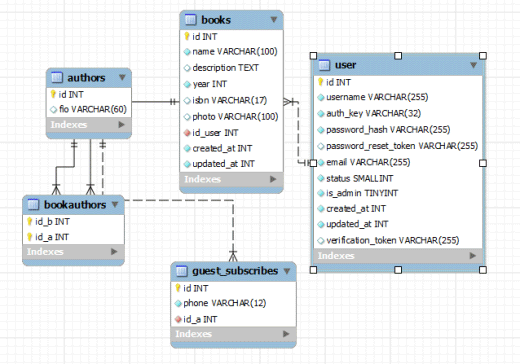
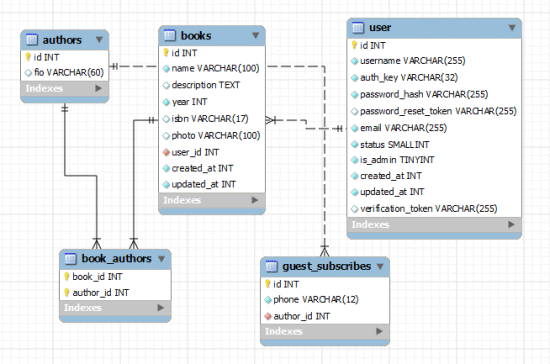
refactor column names

diff --git a/models/entities/Book.php b/models/entities/Book.php
@@ -24,7 +24,7 @@ use yii\db\ActiveRecord;
  * @property string|null $isbn ISBN книги, если известен
  * @property int $year Год издания
  * @property string|null $photo Путь к картинке обложки
- * @property int $id_user id пользователя, добавившего книгу
+ * @property int $user_id id пользователя, добавившего книгу
  * @property int $created_at
  * @property int $updated_at
  *
@@ -58,14 +58,14 @@ class Book extends \yii\db\ActiveRecord
         return 'books';
     }
 
-    public static function create($name, $description, $isbn, $photo, $id_user, $year): self
+    public static function create($name, $description, $isbn, $photo, $user_id, $year): self
     {
         $book = new static();
         $book->name = $name;
         $book->description = $description;
         $book->isbn = $isbn;
         $book->photo = $photo;
-        $book->id_user = $id_user;
+        $book->user_id = $user_id;
         $book->year = $year;
         return $book;
     }
@@ -93,18 +93,18 @@ class Book extends \yii\db\ActiveRecord
         $existed = $this->bookauthors;
         $existedIds = [];
         foreach ($existed as $bookAuthor) {
-            if (!in_array($bookAuthor->id_a, $newIds)) {
+            if (!in_array($bookAuthor->author_id, $newIds)) {
                 $bookAuthor->delete();
             }
-            $existedIds[] = $bookAuthor->id_a;
+            $existedIds[] = $bookAuthor->author_id;
         }
 
         // Проверяем на новых
         foreach ($newIds as $idAuthor) {
             if (!in_array($idAuthor, $existedIds)) {
                 $bookAuthor = new BookAuthor();
-                $bookAuthor->id_b = $this->id;
-                $bookAuthor->id_a = $idAuthor;
+                $bookAuthor->book_id = $this->id;
+                $bookAuthor->author_id = $idAuthor;
                 // Сохраняю в очередь задачу, что у автора появилась новая книга
                 // Эта задача, выполняясь, в свою очередь, создаст задачи по отправке оповещений подписчикам
                 Yii::$app->queue->push(new \app\services\AuthorNewBookJob([
@@ -120,12 +120,12 @@ class Book extends \yii\db\ActiveRecord
 
     /**
      * Проверяю что данная книга была создана пользователем с этим id
-     * @param int $id_user
+     * @param int $user_id
      * @return bool
      */
-    public function checkCreatedByUser(int $id_user): bool
+    public function checkCreatedByUser(int $user_id): bool
     {
-        return $this->id_user == $id_user;
+        return $this->user_id == $user_id;
     }
 
     /**
@@ -140,7 +140,7 @@ class Book extends \yii\db\ActiveRecord
             'isbn' => 'ISBN книги',
             'photo' => 'Путь к картинке обложки',
             'year' => 'Год издания',
-            'id_user' => 'id пользователя, добавившего книгу',
+            'user_id' => 'id пользователя, добавившего книгу',
             'created_at' => 'Created At',
             'updated_at' => 'Updated At',
         ];
@@ -153,7 +153,7 @@ class Book extends \yii\db\ActiveRecord
      */
     public function getAuthors(): \yii\db\ActiveQuery
     {
-        return $this->hasMany(Author::class, ['id' => 'id_a'])->viaTable('bookauthors', ['id_b' => 'id']);
+        return $this->hasMany(Author::class, ['id' => 'author_id'])->viaTable('book_authors', ['book_id' => 'id']);
     }
 
     /**
@@ -163,7 +163,7 @@ class Book extends \yii\db\ActiveRecord
      */
     public function getBookauthors(): \yii\db\ActiveQuery
     {
-        return $this->hasMany(Bookauthor::class, ['id_b' => 'id']);
+        return $this->hasMany(Bookauthor::class, ['book_id' => 'id']);
     }
 
     /**
@@ -173,7 +173,7 @@ class Book extends \yii\db\ActiveRecord
      */
     public function getUser(): \yii\db\ActiveQuery
     {
-        return $this->hasOne(User::class, ['id' => 'id_user']);
+        return $this->hasOne(User::class, ['id' => 'user_id']);
     }
 
 }

diff --git a/models/entities/BookAuthor.php b/models/entities/BookAuthor.php
@@ -14,8 +14,8 @@ namespace app\models\entities;
 /**
  * This is the model class for table "bookauthors".
  *
- * @property int $id_b id книги
- * @property int $id_a id автора
+ * @property int $book_id id книги
+ * @property int $author_id id автора
  *
  * @property Author $a
  * @property Book $b
@@ -27,7 +27,7 @@ class BookAuthor extends \yii\db\ActiveRecord
      */
     public static function tableName()
     {
-        return 'bookauthors';
+        return 'book_authors';
     }
 
     /**
@@ -36,11 +36,11 @@ class BookAuthor extends \yii\db\ActiveRecord
     public function rules()
     {
         return [
-            [['id_b', 'id_a'], 'required'],
-            [['id_b', 'id_a'], 'integer'],
-            [['id_b', 'id_a'], 'unique', 'targetAttribute' => ['id_b', 'id_a']],
-            [['id_a'], 'exist', 'skipOnError' => true, 'targetClass' => Author::class, 'targetAttribute' => ['id_a' => 'id']],
-            [['id_b'], 'exist', 'skipOnError' => true, 'targetClass' => Book::class, 'targetAttribute' => ['id_b' => 'id']],
+            [['book_id', 'author_id'], 'required'],
+            [['book_id', 'author_id'], 'integer'],
+            [['book_id', 'author_id'], 'unique', 'targetAttribute' => ['book_id', 'author_id']],
+            [['author_id'], 'exist', 'skipOnError' => true, 'targetClass' => Author::class, 'targetAttribute' => ['author_id' => 'id']],
+            [['book_id'], 'exist', 'skipOnError' => true, 'targetClass' => Book::class, 'targetAttribute' => ['book_id' => 'id']],
         ];
     }
 
@@ -50,8 +50,8 @@ class BookAuthor extends \yii\db\ActiveRecord
     public function attributeLabels()
     {
         return [
-            'id_b' => 'id книги',
-            'id_a' => 'id автора',
+            'book_id' => 'id книги',
+            'author_id' => 'id автора',
         ];
     }
 
@@ -62,7 +62,7 @@ class BookAuthor extends \yii\db\ActiveRecord
      */
     public function getAuthor(): \yii\db\ActiveQuery
     {
-        return $this->hasOne(Author::class, ['id' => 'id_a']);
+        return $this->hasOne(Author::class, ['id' => 'author_id']);
     }
 
     /**
@@ -72,7 +72,7 @@ class BookAuthor extends \yii\db\ActiveRecord
      */
     public function getBook(): \yii\db\ActiveQuery
     {
-        return $this->hasOne(Book::class, ['id' => 'id_b']);
+        return $this->hasOne(Book::class, ['id' => 'book_id']);
     }
 
 }

diff --git a/models/entities/GuestSubscribe.php b/models/entities/GuestSubscribe.php
@@ -15,7 +15,7 @@ namespace app\models\entities;
  *
  * @property int $id
  * @property string $phone Телефон гостя
- * @property int $id_a Id автора
+ * @property int $author_id Id автора
  *
  * @property Author $a
  */
@@ -36,14 +36,14 @@ class GuestSubscribe extends \yii\db\ActiveRecord
     {
         return [
             [['phone'], 'required'],
-            [['id_a'], 'integer'],
+            [['author_id'], 'integer'],
             [['phone'], 'string', 'max' => 15],
             [['phone'], 'match', 'pattern' => '/^\+7 (\d){3}-(\d){3}-(\d){4}$/'],
             ['phone', 'filter', 'filter' => function ($value) {
                 return strtr($value, ['+' => '', ' ' => '', '-' => '']);
             }],
-            [['phone', 'id_a'], 'unique', 'targetAttribute' => ['phone', 'id_a'], 'message' => 'Данный телефон уже подписан на этого автора'],
-            [['id_a'], 'exist', 'skipOnError' => true, 'targetClass' => Author::class, 'targetAttribute' => ['id_a' => 'id']],
+            [['phone', 'author_id'], 'unique', 'targetAttribute' => ['phone', 'author_id'], 'message' => 'Данный телефон уже подписан на этого автора'],
+            [['author_id'], 'exist', 'skipOnError' => true, 'targetClass' => Author::class, 'targetAttribute' => ['author_id' => 'id']],
         ];
     }
 
@@ -55,7 +55,7 @@ class GuestSubscribe extends \yii\db\ActiveRecord
         return [
             'id' => 'ID',
             'phone' => 'Ваш телефон',
-            'id_a' => 'Id автора',
+            'author_id' => 'Id автора',
         ];
     }
 
@@ -66,7 +66,7 @@ class GuestSubscribe extends \yii\db\ActiveRecord
      */
     public function getAuthor()
     {
-        return $this->hasOne(Author::class, ['id' => 'id_a']);
+        return $this->hasOne(Author::class, ['id' => 'author_id']);
     }
 
 }

diff --git a/migrations/m250619_040619_create_books_table.php b/migrations/m250619_040619_create_books_table.php
@@ -19,7 +19,7 @@ class m250619_040619_create_books_table extends Migration
             'year' => $this->integer()->notNull()->comment('Год издания'),
             'isbn' => $this->string(17)->unique()->comment('ISBN книги, если известен'),
             'photo' => $this->string('100')->comment('Путь к картинке обложки'),
-            'id_user' => $this->integer()->notNull()->comment('id пользователя, добавившего книгу'),
+            'user_id' => $this->integer()->notNull()->comment('id пользователя, добавившего книгу'),
             'created_at' => $this->integer()->notNull(),
             'updated_at' => $this->integer()->notNull(),
         ]);
@@ -28,7 +28,7 @@ class m250619_040619_create_books_table extends Migration
         $this->createIndex('books_name_idx', 'books', 'name');
         $this->createIndex('books_isbn_idx', 'books', 'isbn');
 
-        $this->addForeignKey('books_id_user_fk', 'books', 'id_user', 'user', 'id' , 'CASCADE', 'CASCADE' );
+        $this->addForeignKey('books_user_id_fk', 'books', 'user_id', 'user', 'id' , 'CASCADE', 'CASCADE' );
     }
 
     /**

diff --git a/migrations/m250619_042210_create_book_authors_table.php b/migrations/m250619_042210_create_book_authors_table.php
@@ -1,0 +1,32 @@
+<?php
+
+use yii\db\Migration;
+
+/**
+ * Handles the creation of table `{{%book_authors}}`.
+ */
+class m250619_042210_create_book_authors_table extends Migration
+{
+    /**
+     * {@inheritdoc}
+     */
+    public function safeUp()
+    {
+        $this->createTable('book_authors', [
+            'book_id' => $this->integer()->notNull()->comment('id книги'),
+            'author_id' => $this->integer()->notNull()->comment('id автора'),
+        ]);
+        $this->addPrimaryKey('book_authors_pk','book_authors', ['book_id', 'author_id']);
+        $this->addForeignKey('book_authors_book_id_fk', 'book_authors', 'book_id', 'books', 'id' , 'CASCADE', 'CASCADE' );
+        $this->addForeignKey('book_authors_author_id_fk', 'book_authors', 'author_id', 'authors', 'id' , 'CASCADE', 'CASCADE' );
+
+    }
+
+    /**
+     * {@inheritdoc}
+     */
+    public function safeDown()
+    {
+        $this->dropTable('{{%book_authors}}');
+    }
+}

diff --git a/migrations/m250619_110925_create_guest_subscribes_table.php b/migrations/m250619_110925_create_guest_subscribes_table.php
@@ -15,12 +15,12 @@ class m250619_110925_create_guest_subscribes_table extends Migration
         $this->createTable('{{%guest_subscribes}}', [
             'id' => $this->primaryKey(),
             'phone' => $this->string('12')->notNull()->comment('Телефон гостя'),
-            'id_a' => $this->integer()->notNull()->comment('Id автора')
+            'author_id' => $this->integer()->notNull()->comment('Id автора')
         ]);
 
-        $this->createIndex('guest_subscribes_phone_id_a_idx', 'guest_subscribes', ['phone', 'id_a'], true);
+        $this->createIndex('guest_subscribes_phone_author_id_idx', 'guest_subscribes', ['phone', 'author_id'], true);
 
-        $this->addForeignKey('guest_subscribes_id_a_fk', 'guest_subscribes', 'id_a', 'authors', 'id' , 'CASCADE', 'CASCADE' );
+        $this->addForeignKey('guest_subscribes_author_id_fk', 'guest_subscribes', 'author_id', 'authors', 'id' , 'CASCADE', 'CASCADE' );
     }
 
     /**

diff --git a/controllers/AuthorController.php b/controllers/AuthorController.php
@@ -73,11 +73,11 @@ class AuthorController extends Controller
     {
         $model = $this->findModel($id);
 
-        $subscribe = new GuestSubscribe(['id_a' => $id, 'phone' => '+7']);
+        $subscribe = new GuestSubscribe(['author_id' => $id, 'phone' => '+7']);
 
         if (Yii::$app->user->isGuest && $this->request->isPost) {
             if ($subscribe->load($this->request->post())) {
-                $subscribe->id_a = $id;
+                $subscribe->author_id = $id;
                 if ($subscribe->save()) {
                     Yii::$app->session->setFlash('success', 'Вы успешно подписаны на автора');
                     return $this->redirect(['view', 'id' => $model->id]);

diff --git a/models/entities/Author.php b/models/entities/Author.php
@@ -57,7 +57,7 @@ class Author extends \yii\db\ActiveRecord
      */
     public function getBooks(): \yii\db\ActiveQuery
     {
-        return $this->hasMany(Book::class, ['id' => 'id_b'])->viaTable('bookauthors', ['id_a' => 'id']);
+        return $this->hasMany(Book::class, ['id' => 'book_id'])->viaTable('book_authors', ['author_id' => 'id']);
     }
 
     /**
@@ -67,7 +67,7 @@ class Author extends \yii\db\ActiveRecord
      */
     public function getSubscribers(): \yii\db\ActiveQuery
     {
-        return $this->hasMany(GuestSubscribe::class, ['id_a' => 'id']);
+        return $this->hasMany(GuestSubscribe::class, ['author_id' => 'id']);
     }
 
     public static function getAuthotsList() : array

diff --git a/models/search/BookSearch.php b/models/search/BookSearch.php
@@ -17,7 +17,7 @@ class BookSearch extends Book
     public function rules()
     {
         return [
-            [['id', 'id_user', 'created_at', 'updated_at'], 'integer'],
+            [['id', 'user_id', 'created_at', 'updated_at'], 'integer'],
             [['name', 'description', 'isbn', 'photo'], 'safe'],
         ];
     }
@@ -60,7 +60,7 @@ class BookSearch extends Book
         // grid filtering conditions
         $query->andFilterWhere([
             'id' => $this->id,
-            'id_user' => $this->id_user,
+            'user_id' => $this->user_id,
             'created_at' => $this->created_at,
             'updated_at' => $this->updated_at,
         ]);

diff --git a/repositories/AuthorReadRepository.php b/repositories/AuthorReadRepository.php
@@ -26,9 +26,9 @@ class AuthorReadRepository
         $query = new Query();
         $query
             ->select(['a.id', 'b.year','a.fio', 'count' => new Expression('COUNT(*)')])
-            ->from(['ba' => 'bookauthors'])
-            ->leftJoin('authors a', 'ba.id_a = a.id')
-            ->leftJoin('books b', 'ba.id_b = b.id')
+            ->from(['ba' => 'book_authors'])
+            ->leftJoin('authors a', 'ba.author_id = a.id')
+            ->leftJoin('books b', 'ba.book_id = b.id')
             ->where(['b.year' => $year])
             ->groupBy('a.id, b.year, a.fio')
             ->orderBy('count desc')

diff --git a/models/forms/BookCreateForm.php b/models/forms/BookCreateForm.php
@@ -58,7 +58,7 @@ class BookCreateForm extends \yii\base\Model
     /**
      * @var int Пользователь, создавший книгу
      */
-    public int  $id_user;
+    public int  $user_id;
 
     /**
      * @var array Авторы
@@ -85,7 +85,7 @@ class BookCreateForm extends \yii\base\Model
 
     public function init()
     {
-        $this->id_user = Yii::$app->user->identity->id;
+        $this->user_id = Yii::$app->user->identity->id;
         $this->year = (int) date("Y");
 
         for ($i = 1; $i <= self::AUTHORS_MAX_AMOUNT; $i++) {

diff --git a/services/AuthorNewBookJob.php b/services/AuthorNewBookJob.php
@@ -24,7 +24,7 @@ class AuthorNewBookJob extends \yii\base\BaseObject implements \yii\queue\JobInt
 
     public function execute($queue)
     {
-        $subs = GuestSubscribe::find()->where(['id_a' => $this->author_id])->asArray()->all();
+        $subs = GuestSubscribe::find()->where(['author_id' => $this->author_id])->asArray()->all();
         foreach ($subs as $sub) {
             \Yii::$app->queue->push(new \app\services\NotifySubscriberJob([
                 'phone' => $sub['phone'],
